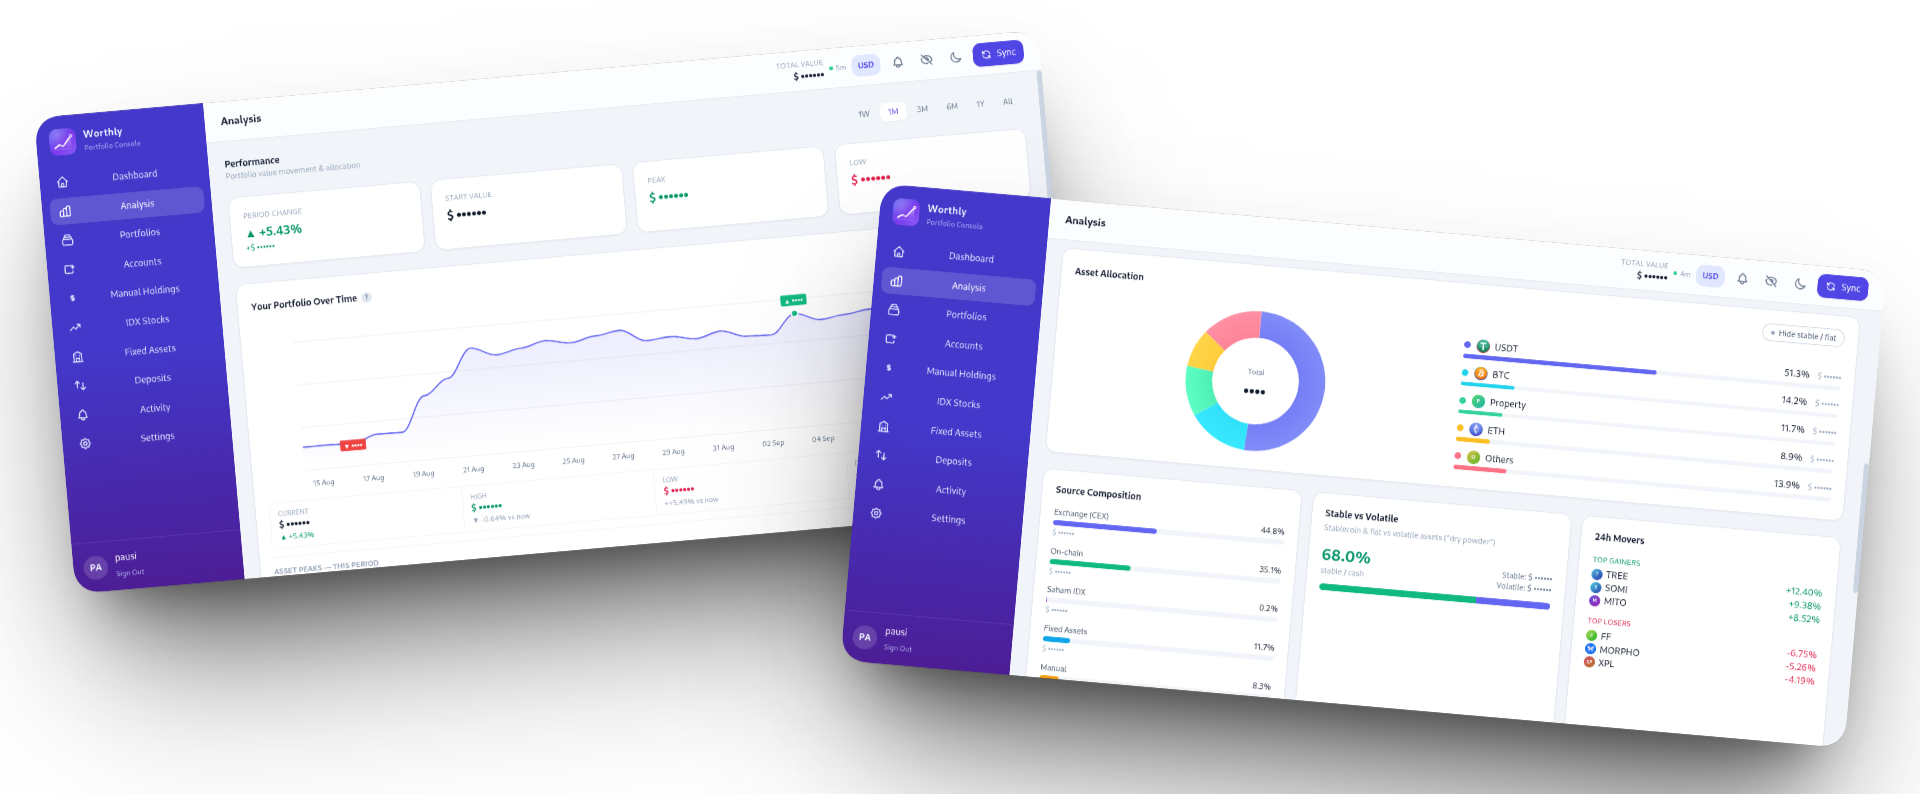
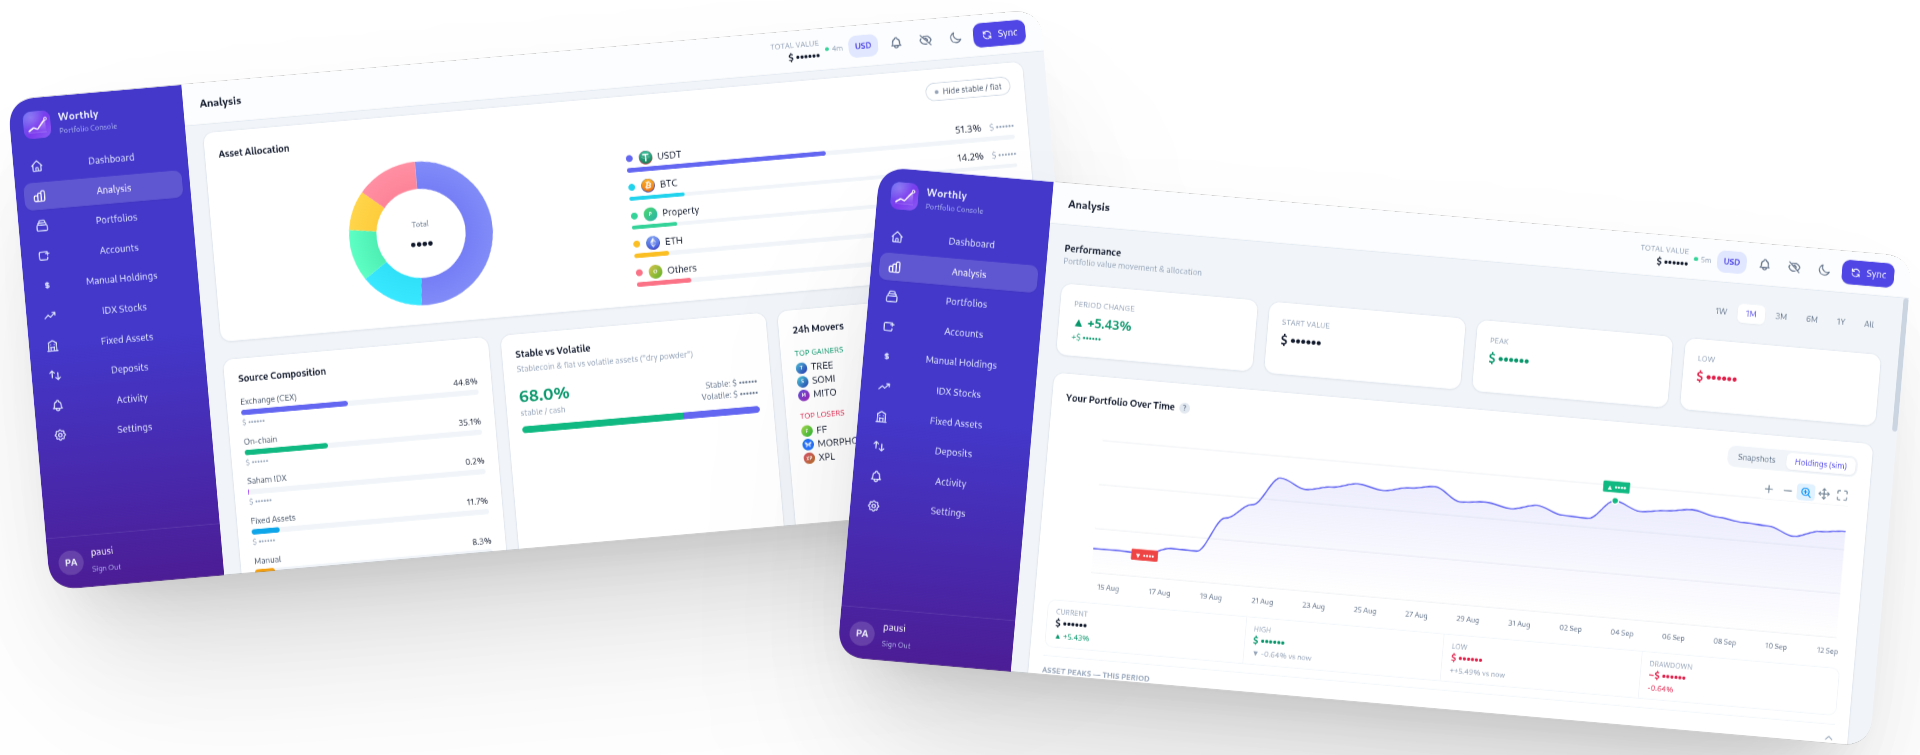
docs: perbarui preview, deskripsi, dan perbaikan README

diff --git a/src/frontend/pwa.ts b/src/frontend/pwa.ts
@@ -26,7 +26,7 @@ export const iconSvg = `<svg xmlns="http://www.w3.org/2000/svg" viewBox="0 0 192
 export const manifestJson = JSON.stringify({
   name: 'Worthly',
   short_name: 'Worthly',
-  description: 'Personal crypto & portfolio tracker',
+  description: 'Personal multi-asset portfolio & net worth tracker',
   start_url: '/',
   scope: '/',
   display: 'standalone',

diff --git a/README.md b/README.md
@@ -1,9 +1,8 @@
 # Worthly
 
-Personal crypto / CEX portfolio tracker yang berjalan di **Cloudflare Workers**.
+All-in-one personal net worth & multi-asset portfolio tracker (Crypto CEX, On-chain, Saham IDX, & Aset Tetap) yang berjalan *serverless* di **Cloudflare Workers**.
 
 ![Worthly Preview](.github/assets/preview.png)
-
 
 - **Backend:** Hono + Cloudflare D1 (database) + KV (session, rate limit, cache harga)
 - **Frontend:** Alpine.js + Tailwind CSS + ApexCharts, **self-hosted** (di-build lokal ke `public/`, disajikan via Workers Assets — bukan CDN), responsif + PWA
@@ -23,7 +22,7 @@ Cron (10 mnt) ─┐
               ├─► syncAll() ─► tiap account (per batch): ambil saldo + deposit ─► D1
 HTTP request ─┘                 └─► snapshot nilai portofolio (interval) ─► chart
 
-Frontend (Alpine, self-hosted) ─► /api/* (Hono, butuh sesi) ─► D1 / KV
+Frontend (Alpine, self-hosted) ─► /graphql (Hono + GraphQL Yoga, butuh sesi) ─► D1 / KV
 Harga: ticker publik Binance (crypto) + Frankfurter/ECB (fiat) ─► konversi ke USD
 ```
 
@@ -35,7 +34,7 @@ Harga: ticker publik Binance (crypto) + Frankfurter/ECB (fiat) ─► konversi k
 | `src/services/prices` | konversi harga ke USD + cache (crypto Binance, fiat Frankfurter, saham Yahoo) |
 | `src/services/sync.ts` | orkestrator sinkronisasi + snapshot |
 | `src/services/valuation.ts`, `overview.ts`, `returns.ts` | valuasi portofolio, ringkasan, perhitungan return |
-| `src/routes` | endpoint API (auth, portfolios, accounts, holdings, dashboard, export, system) |
+| `src/graphql` | skema GraphQL, resolver, auth plugin, konteks, GraphiQL gate |
 | `src/frontend` | halaman login + app shell + PWA (HTML string) |
 | `scripts/build-frontend.mjs` | build aset self-host → `public/` (Tailwind, Alpine, ApexCharts) |
 | `migrations` | skema D1 |
@@ -124,25 +123,6 @@ Buka aplikasi → akan diminta **setup user pertama** (username + password ≥ 1
   dicatat pada waktu input; sebelum itu harga beli berlaku sejak tanggal beli. Chart simulasi
   memakai riwayat taksiran aset tetap (nol sebelum pembelian), dengan kurs fiat terkini sebagai
   aproksimasi. Chart snapshot tetap menunjukkan saldo yang benar-benar tercatat saat itu.
-
-## Share Studio
-
-Di **Analysis**, klik **Create share card** untuk membuat PNG dari data yang sedang dimuat.
-Pilih **Overview**, **Allocation Only**, atau **Performance**, tema Midnight/Daylight, dan format
-Square (1080×1080), Story (1080×1920), atau Landscape (1600×900). Nama aset dan nominal
-disembunyikan secara default; Allocation Only selalu menampilkan persentase tanpa nominal.
-Performance mengikuti periode dan zoom chart saat kartu dibuat, dengan label snapshot atau simulasi.
-Gunakan **Refresh data** setelah mengganti filter Analysis. Preview dan ekspor dibuat di browser,
-tanpa mengunggah gambar atau membagikannya secara otomatis.
-
-Template **All Assets** menampilkan seluruh holding sebagai daftar berhalaman. Filter **≥ US$1**
-aktif secara default (termasuk nilai tepat $1), dihitung setelah unit aset sejenis digabung lintas
-wallet/exchange. Properti dan aset tetap tetap terpisah. Matikan filter untuk menyertakan dust,
-holding tanpa harga, dan nilai negatif; holding kosong tidak disertakan. Pilih kolom jumlah unit,
-nilai uang, dan persentase secara terpisah, serta urutan nilai terbesar/terkecil atau nama A–Z/Z–A.
-Persentase dihitung terhadap seluruh holding bernilai positif sebelum filter; nilai negatif
-ditampilkan dengan persentase “—”. Unduh setiap halaman PNG untuk membagikan seluruh daftar.
-Tes regresi filter, urutan, paginasi, dan privasi: `npm run test:share-assets`.
 
 ## Catatan keamanan
 
